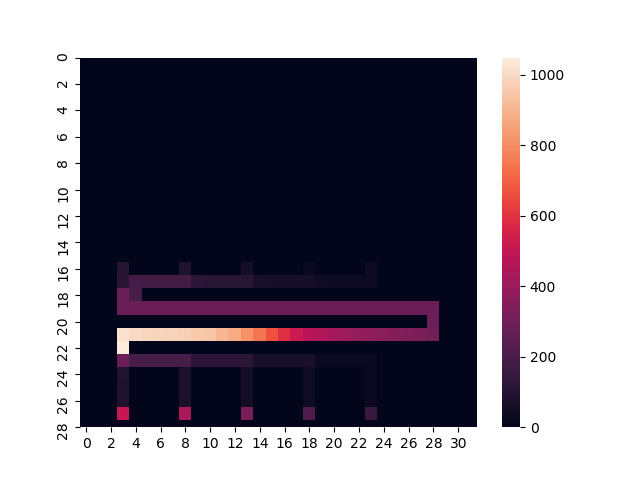
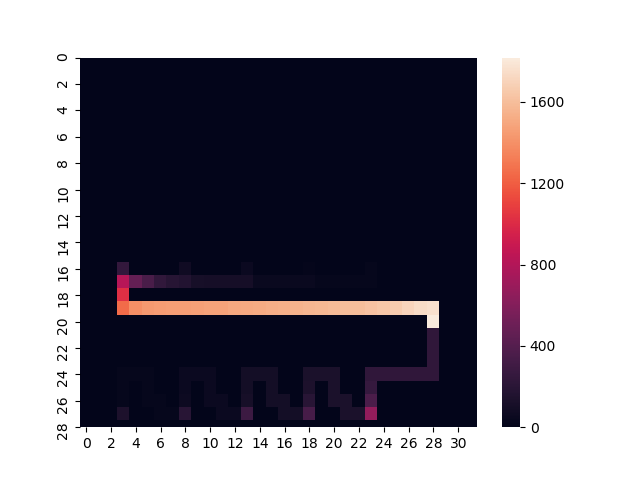
Update map lane boundary

diff --git a/src/model.py b/src/model.py
@@ -11,6 +11,7 @@ import numpy as np
 from pathfinding.core.grid import Grid
 from pathfinding.finder.a_star import AStarFinder
 from scipy.spatial import distance
+from scipy.stats import truncnorm
 import seaborn as sns
 
 from enums import AgentPhase, QueueType
@@ -77,7 +78,7 @@ class CustomerAgent(Agent):
         super().__init__(unique_id, model)
         self.sprite = sprite
 
-        self.products_count = math.floor(np.random.normal(self.model.capacity / 2, self.model.capacity / 4))
+        self.products_count = math.floor(get_truncated_normal(mean=self.model.capacity / 2, sd=self.model.capacity / 4, upp=self.model.capacity))
         self.shopping_time = Counter(3 + self.products_count * 0.75)
         self.paying_time = Counter(1 + self.products_count * 0.25)
 
@@ -138,7 +139,7 @@ class SupermarketModel(Model):
         self.terrain_map_name = 'map' if self.queue_type == QueueType.CLASSIC else 'map_snake'
         with open(os.path.join(os.getcwd(), '..', 'resources', '{}.txt'.format(self.terrain_map_name))) as f:
             self.width, self.height = map(int, f.readline().strip().split(' '))
-            self.capacity, self.lane_switch_boundary = map(int, f.readline().strip().split(' '))
+            self.capacity = int(f.readline().strip())
             # Skip third txt line with terrain map name (unneeded in model)
             f.readline().strip()
             self.world = [list(c) for c in f.read().split('\n') if c]
@@ -174,6 +175,7 @@ class SupermarketModel(Model):
                     self.snake_exit = (row, col)
                 elif cell in ['1', '2', '3', '4', '5']:
                     cash_register = CashRegisterAgent(cell, self, (row, col))
+                    self.cashier_row = col
                     self.cashiers[cell] = self.grid[row][col] = cash_register
                     self.cash_registers[cell] = (row, col)
                     self.queues[cell] = set()
@@ -184,6 +186,9 @@ class SupermarketModel(Model):
                     self.grid[row + 1][col] = cashier
                 elif cell in ['A', 'B', 'C', 'D', 'E']:
                     self.entry_points.append((row, col, cell))
+                    self.spawn_row = col
+
+        self.lane_switch_boundary = math.ceil((self.cashier_row - self.spawn_row) * 3 / 4)
 
         self.heatmap = np.zeros((self.height, self.width))
 
@@ -422,3 +427,8 @@ def get_avg_queued_steps(model):
     agents_steps = [agent.step_for_phase[AgentPhase.IN_QUEUE] + agent.step_for_phase[AgentPhase.SNAKE_REACHING_CASHIER]
                     for agent in agents]
     return math.ceil(sum(agents_steps) / len(agents)) if len(agents) != 0 else 0
+
+
+def get_truncated_normal(mean=0, sd=1, low=1, upp=np.inf):
+    print(mean, sd, low, upp)
+    return truncnorm((low - mean) / sd, (upp - mean) / sd, loc=mean, scale=sd).rvs()

diff --git a/src/run.py b/src/run.py
@@ -64,7 +64,7 @@ queue_type = UserSettableParameter('choice', 'Queue Type', value=QueueType.CLASS
 
 with open(os.path.join(os.getcwd(), '..', 'resources', 'map.txt')) as f:
     width, height = map(int, f.readline().strip().split(' '))
-    capacity, lane_switch_boundary = map(int, f.readline().strip().split(' '))
+    f.readline()
     terrain_map_name = f.readline().strip()
 
 tile_size = 24
